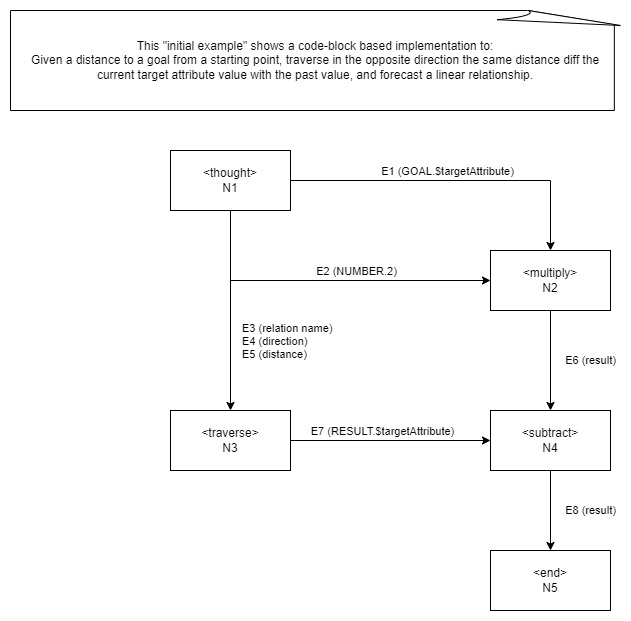
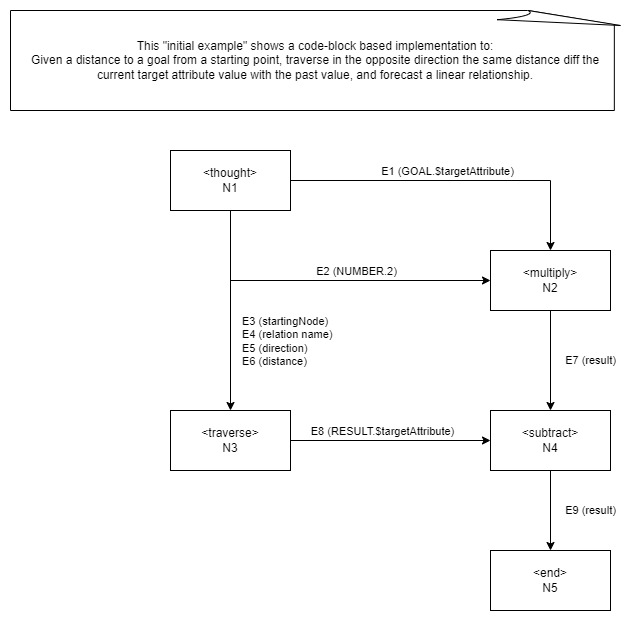
thought building (WIP)

Changed region(s): [[0.3613, 0.4895, 0.542, 0.6119]]

diff --git a/java-project/src/test/java/com/whelanlabs/andrew/ThoughtTest.java b/java-project/src/test/java/com/whelanlabs/andrew/ThoughtTest.java
@@ -120,7 +120,7 @@ public class ThoughtTest {
       // create steps
       final Node n2 = new Node(ElementHelper.generateKey(), "thought_operation");
       n2.addAttribute("thought_key", n1.getKey());
-      n2.addAttribute("operationName", "multiplication");
+      n2.addAttribute("operationName", "multiply");
       
       final Node n3 = new Node(ElementHelper.generateKey(), "thought_operation");
       n3.addAttribute("thought_key", n1.getKey());
@@ -132,6 +132,7 @@ public class ThoughtTest {
 
       final Node n5 = new Node(ElementHelper.generateKey(), "thought_result");
       n5.addAttribute("thought_key", n1.getKey());
+      n5.addAttribute("operationName", "end");
 
       // link the thought process using valid sequence relationships
       Edge e0 = new Edge(ElementHelper.generateKey(), goalNode, n1, "approach");
@@ -139,43 +140,48 @@ public class ThoughtTest {
       Edge e1 = new Edge(ElementHelper.generateKey(), n1, n2, "thought_sequence");
       e1.addAttribute("thought_key", n1.getKey());
       e1.addAttribute("input", "NODE.targetAttribute" );
-      e1.addAttribute("output", "number_one");
+      e1.addAttribute("output", "numberA");
       
       Edge e2 = new Edge(ElementHelper.generateKey(), n1, n2, "thought_sequence");
       e2.addAttribute("thought_key", n1.getKey());
       e2.addAttribute("input", "NUMBER.2" );
-      e2.addAttribute("output", "number_two");
+      e2.addAttribute("output", "numberB");
 
       Edge e3 = new Edge(ElementHelper.generateKey(), n1, n3, "thought_sequence");
       e3.addAttribute("thought_key", n1.getKey());
-      e3.addAttribute("input", "NODE.edgeType" );
-      e3.addAttribute("output", "edge_type");
+      e3.addAttribute("input", "NODE.startingNode" );
+      e3.addAttribute("output", "startingNode");
       
       Edge e4 = new Edge(ElementHelper.generateKey(), n1, n3, "thought_sequence");
+      e3.addAttribute("thought_key", n1.getKey());
+      e3.addAttribute("input", "NODE.edgeType" );
+      e3.addAttribute("output", "traversalEdgeName");
+      
+      Edge e5 = new Edge(ElementHelper.generateKey(), n1, n3, "thought_sequence");
       e4.addAttribute("thought_key", n1.getKey());
       e4.addAttribute("input", "NODE.direction" );
       // TODO: make the traversal go in the opposite direction of the goal OR make the distance negative
       e4.addAttribute("output", "direction");
 
-      Edge e5 = new Edge(ElementHelper.generateKey(), n1, n3, "thought_sequence");
+      Edge e6 = new Edge(ElementHelper.generateKey(), n1, n3, "thought_sequence");
       e5.addAttribute("thought_key", n1.getKey());
       e5.addAttribute("input", "NODE.$distance" );
       e5.addAttribute("output", "distance");
       
-      Edge e6 = new Edge(ElementHelper.generateKey(), n2, n4, "thought_sequence");
+      Edge e7 = new Edge(ElementHelper.generateKey(), n2, n4, "thought_sequence");
       e6.addAttribute("thought_key", n1.getKey());
-      e6.addAttribute("input", "XXX" );
-      e6.addAttribute("output", "XXX");
+      e6.addAttribute("input", "RESULT.$targetAttribute" );
+      e6.addAttribute("output", "numberA");
 
-      Edge e7 = new Edge(ElementHelper.generateKey(), n3, n4, "thought_sequence");
+      Edge e8 = new Edge(ElementHelper.generateKey(), n3, n4, "thought_sequence");
       e7.addAttribute("thought_key", n1.getKey());
-      e7.addAttribute("input", "XXX" );
-      e7.addAttribute("output", "XXX");
+      e7.addAttribute("input", "RESULT" );
+      e7.addAttribute("output", "numberB");
       
-      Edge e8 = new Edge(ElementHelper.generateKey(), n4, n5, "thought_sequence");
+      Edge e9 = new Edge(ElementHelper.generateKey(), n4, n5, "thought_sequence");
       e8.addAttribute("thought_key", n1.getKey());
-      e8.addAttribute("input", "XXX" );
-      e8.addAttribute("output", "XXX");
+      e8.addAttribute("input", "RESULT" );
+      e8.addAttribute("output", "inputA");
 
       App.getGardenGraph().upsert(goalNode, n1, n2, n3, n4, n5);
       App.getGardenGraph().upsert(e0, e1, e2, e3, e4, e5, e6, e7, e8);
@@ -214,7 +220,7 @@ public class ThoughtTest {
 
       final Node A2_valueX2 = new Node(ElementHelper.generateKey(), "thought_operation");
       A2_valueX2.addAttribute("thought_key", thought.getKey());
-      A1_getNumberAttribute.addAttribute("operationName", "multiplication");
+      A1_getNumberAttribute.addAttribute("operationName", "multiply");
 
       final Node AB1_subtract = new Node(ElementHelper.generateKey(), "thought_operation");
       AB1_subtract.addAttribute("thought_key", thought.getKey());

diff --git a/java-project/src/main/java/com/whelanlabs/andrew/Operations.java b/java-project/src/main/java/com/whelanlabs/andrew/Operations.java
@@ -1,7 +1,7 @@
 package com.whelanlabs.andrew;
 
-import java.util.ArrayList;
-import java.util.List;
+import java.util.HashMap;
+import java.util.Map;
 
 import com.whelanlabs.kgraph.engine.Node;
 
@@ -20,23 +20,56 @@ public class Operations {
 
    private Node _node;
 
+   
+   
    public Operations(Node node) {
       _node = node;
    }
 
-   public static Object getNumberAttribute(List<Object> inputs) {
+   public static Map<String, Object> getNumberAttribute(Map<String, Object> inputs) {
       return null;
    }
 
-   public static List<String> listInputTypes(String operationName) {
-      List<String> results = new ArrayList<>();
+   public static Map<String, Object> traverse(Map<String, Object> inputs) {
+      return null;
+   }
+   
+   public static Map<String, Object> multiply(Map<String, Object> inputs) {
+      return null;
+   }
+   
+   public static Map<String, Object> subtract(Map<String, Object> inputs) {
+      return null;
+   }
+   
+   public static Map<String, Object> end(Map<String, Object> inputs) {
+      return null;
+   }
+   
+   public static Map<String, String> listInputTypes(String operationName) {
+      Map<String, String> results = new HashMap<>();
 
       switch (operationName) {
          case "getNumberAttribute":
-            results.add("meh");
+            results.put("targetNode", "node");
+            results.put("targetAttribute", "attributeName");
             break;
-         case "Tuesday":
-            results.add("meh");
+         case "traverse":
+            results.put("startingNode", "node");
+            results.put("traversalEdgeName", "edgeType");
+            results.put("direction", "traversalDirection");
+            results.put("distance", "integer");
+            break;
+         case "multiply":
+            results.put("numberA", "number");
+            results.put("numberB", "number");
+            break;
+         case "subtract":
+            results.put("numberA", "number");
+            results.put("numberB", "number");
+            break;
+         case "end":
+            results.put("inputA", "object");
             break;
          default:
             throw new IllegalArgumentException("Invalid day of the week: ");

diff --git a/java-project/src/main/java/com/whelanlabs/andrew/Thought.java b/java-project/src/main/java/com/whelanlabs/andrew/Thought.java
@@ -97,7 +97,6 @@ public class Thought {
             if ("thought_operation".equals(node.getType())) {
                Object opResult = processOperation(node, workingMemory);
                workingMemory = addResultContext(workingMemory, opResult, node.getKey());
-
             }
 
             // getInputs
@@ -112,10 +111,11 @@ public class Thought {
    private Object processOperation(Node node, Map<String, Object> workingMemory) throws Exception {
       String operationName = (String)node.getAttribute("operationName");
       Map<String, Object> inputs = getOperationInputs(node, workingMemory);
+      logger.debug("operation Name = " + operationName);
       logger.debug("operation inputs = " + inputs);
       
       // reflection to call the method with inputs.
-      Method operationMethod = Operations.class.getMethod(operationName, float.class, long.class);
+      Method operationMethod = Operations.class.getMethod(operationName, Map.class);
       
       return null;
    }
